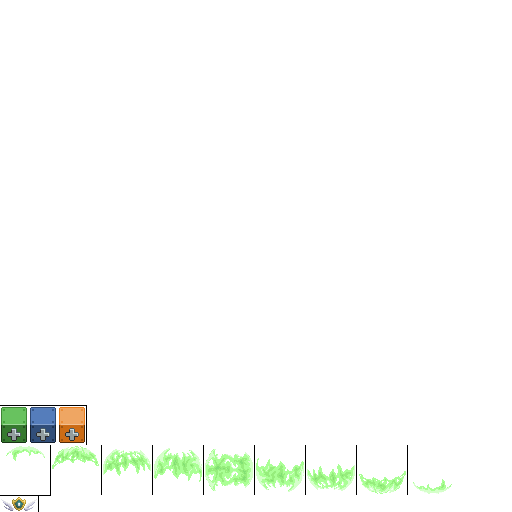
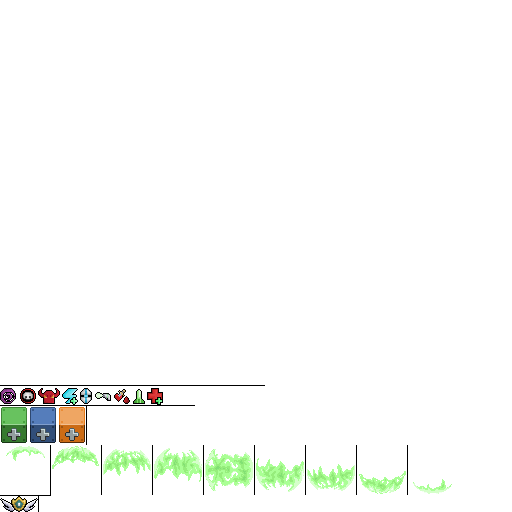
[WRK] I be working breh

Changed region(s): [[0.0, 0.75, 0.3438, 0.8125], [0.0, 0.9688, 0.0625, 1.0]]

diff --git a/opengltest/LifestealItem.cpp b/opengltest/LifestealItem.cpp
@@ -1,12 +1,12 @@
 #include "Lifesteal.h"
 
-//Lifesteal::Lifesteal(Entity* owner, float cooldown, float procRate) : Item(owner, cooldown, procRate)
-//{
-	//icon = new Sprite;
-	//aSprite = new Sprite;
-	//icon->sheet = itemSheet->sheet;
-	//icon->setNumberOfAnimations(1);
-	//icon->setCurrentAnimation(0);
-	//icon->setSpriteFrameSize(22, 16);
-	//icon->addSpriteAnimFrame(0, 38, 388);
-//}
+I_LifeSteal::I_LifeSteal(Entity* owner, float cooldown, float procRate) : Item(owner, cooldown, procRate)
+{
+	icon = new Sprite;
+	aSprite = new Sprite;
+	icon->sheet = itemSheet->sheet;
+	icon->setNumberOfAnimations(1);
+	icon->setCurrentAnimation(0);
+	icon->setSpriteFrameSize(22, 16);
+	icon->addSpriteAnimFrame(0, 38, 388);
+}

diff --git a/opengltest/Player.cpp b/opengltest/Player.cpp
@@ -1,4 +1,5 @@
 #include "Player.h"
+#include "LifeSteal.h"
 
 /*
 Sprite* texture;
@@ -52,6 +53,8 @@ Player::Player(ProjectileManager* projManager, SpriteSheetInfo bar, float _x, fl
 	texture->addSpriteAnimRow(8, 0, 0, 35, 47, 3);
 	texture->setLayerID(1);
 	texture->setCurrentAnimation(0);
+
+	inventory.push_back(new I_LifeSteal(this, 0, 1));
 }
 
 Player::~Player()

diff --git a/opengltest/LifeSteal.h b/opengltest/LifeSteal.h
@@ -4,7 +4,7 @@ class I_LifeSteal : public Item
 {
 public:
 	I_LifeSteal(Entity* owner, float cooldown, float procRate);
-	void Activate() { /*increase hp */}
+	void Activate() { owner->ModHP(owner->getMaxHP() / 20); }
 	void OnHit() { Activate(); }
 private:
 
